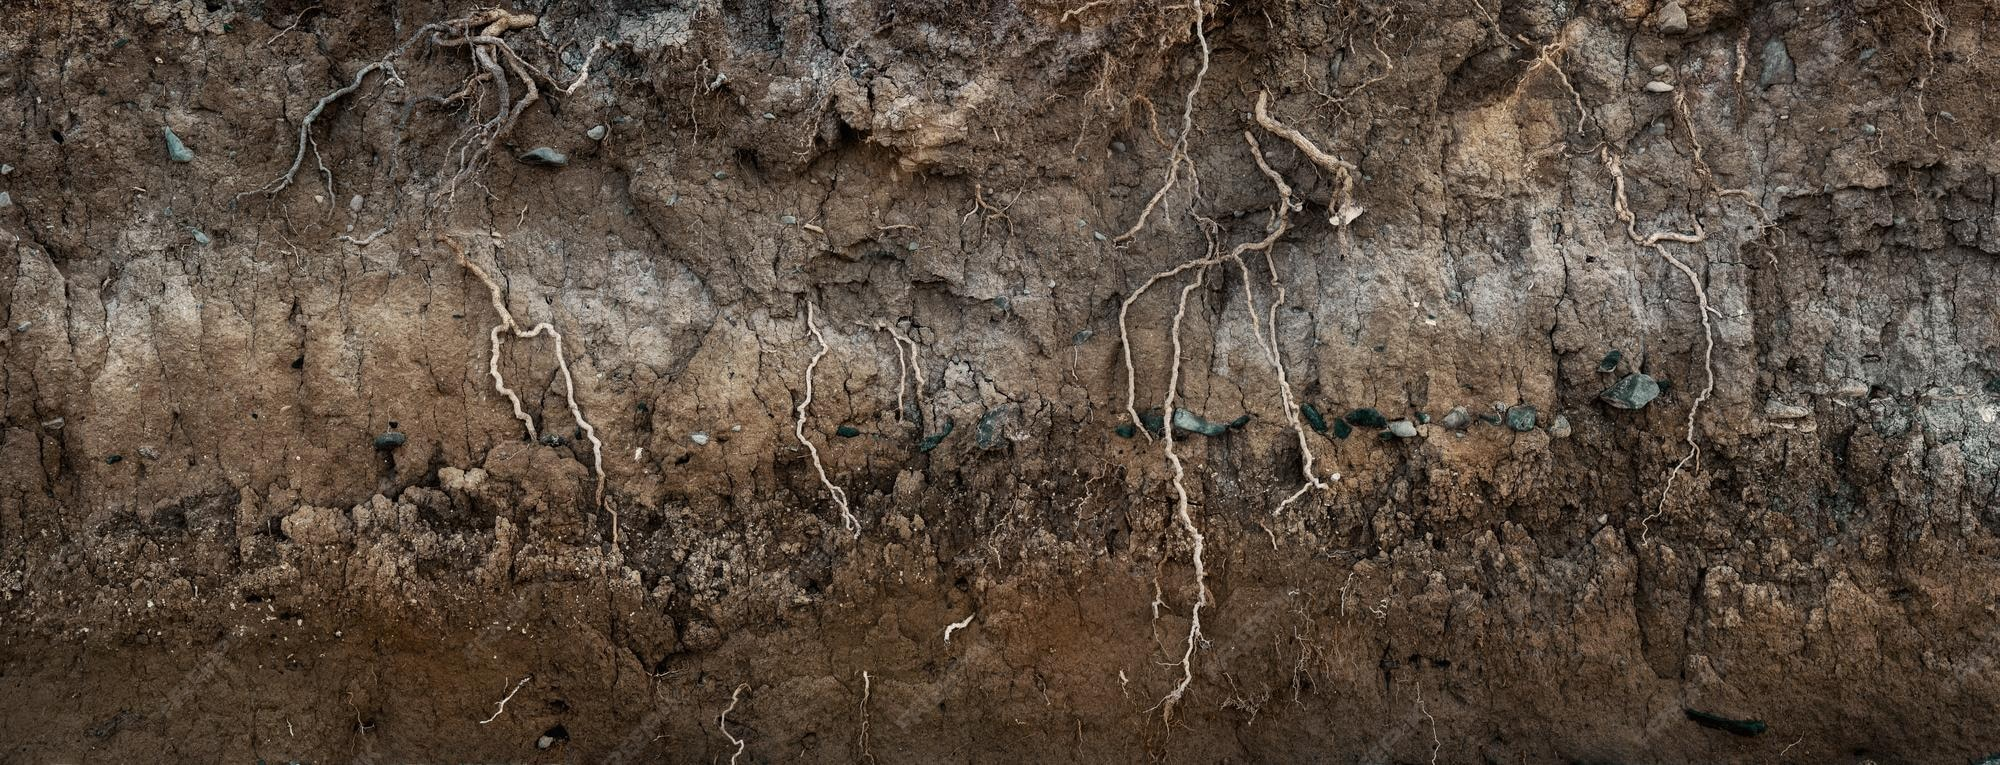
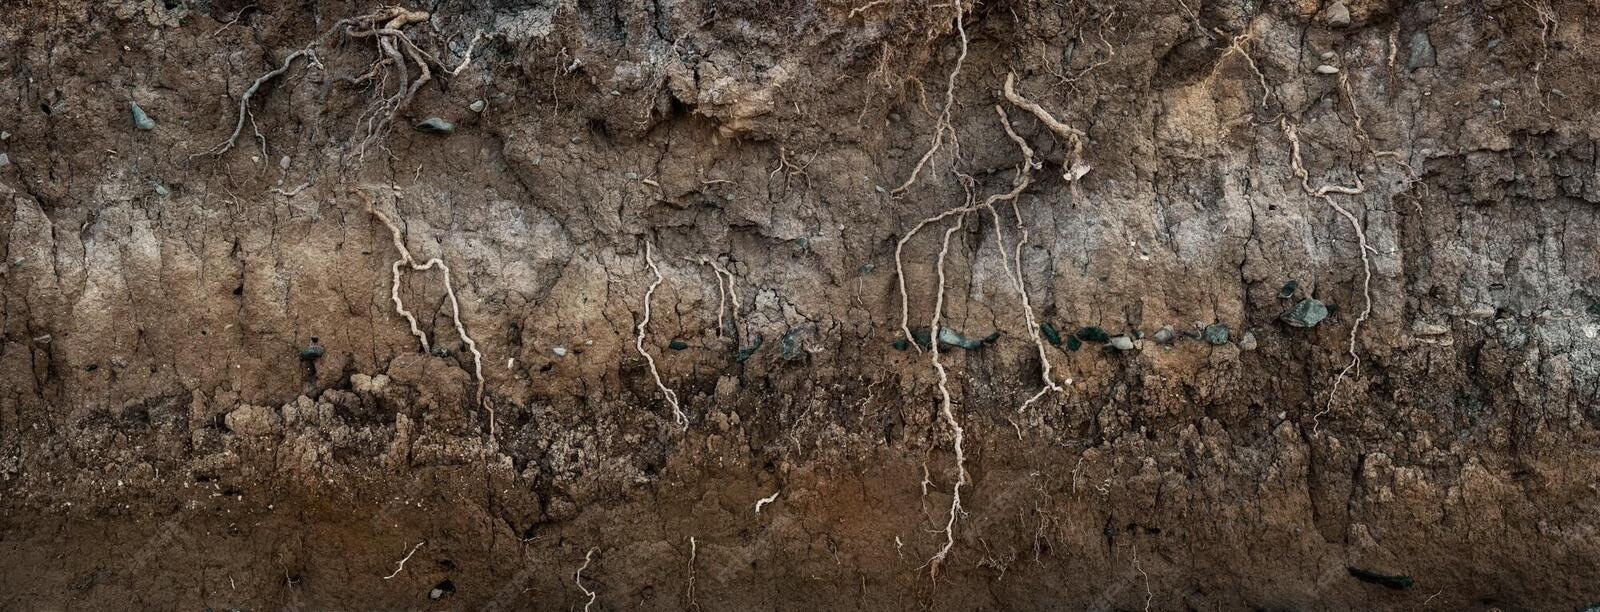
optimizado

diff --git a/layouts/partials/vendor.html b/layouts/partials/vendor.html
@@ -1,0 +1,155 @@
+{{/* jQuery - deferred for faster FCP */}}
+{{ $jqueryLib := resources.Get "lib/jquery/jquery.slim.min.js" | resources.Fingerprint (.Site.Params.fingerprintAlgorithm | default "sha512") }}
+<script defer src="{{ $jqueryLib.RelPermalink }}" integrity="{{ $jqueryLib.Data.Integrity }}"></script>
+
+{{/* Mermaid */}}
+{{ if .Page.HasShortcode "mermaid" }}
+  {{ $mermaidLib := resources.Get "lib/mermaid/mermaid.min.js" }}
+  {{ $mermaidConfig := resources.Get "js/mermaid.js" }}
+  {{ $mermaidConfig := $mermaidConfig | resources.Minify }}
+  {{ $mermaidJS := slice $mermaidLib $mermaidConfig | resources.Concat "js/mermaid.bundle.js" | resources.Fingerprint (.Site.Params.fingerprintAlgorithm | default "sha512") }}
+  <script
+    defer
+    type="text/javascript"
+    src="{{ $mermaidJS.RelPermalink }}"
+    integrity="{{ $mermaidJS.Data.Integrity }}"></script>
+{{ end }}
+
+{{/* Chart */}}
+{{ if .Page.HasShortcode "chart" }}
+  {{ $chartLib := resources.Get "lib/chart/chart.min.js" }}
+  {{ $chartConfig := resources.Get "js/chart.js" }}
+  {{ $chartConfig := $chartConfig | resources.Minify }}
+  {{ $chartJS := slice $chartLib $chartConfig | resources.Concat "js/chart.bundle.js" | resources.Fingerprint (.Site.Params.fingerprintAlgorithm | default "sha512") }}
+  <script
+    defer
+    type="text/javascript"
+    src="{{ $chartJS.RelPermalink }}"
+    integrity="{{ $chartJS.Data.Integrity }}"></script>
+{{ end }}
+
+{{/* Katex */}}
+{{ if .Page.HasShortcode "katex" }}
+  {{ $katexCSS := resources.Get "lib/katex/katex.min.css" }}
+  {{ $katexCSS := $katexCSS | resources.Fingerprint (.Site.Params.fingerprintAlgorithm | default "sha512") }}
+  <link
+    type="text/css"
+    rel="stylesheet"
+    href="{{ $katexCSS.RelPermalink }}"
+    integrity="{{ $katexCSS.Data.Integrity }}">
+  {{ $katexLib := resources.Get "lib/katex/katex.min.js" }}
+  {{ $katexRenderLib := resources.Get "lib/katex/auto-render.min.js" }}
+  {{ $katexJS := slice $katexLib $katexRenderLib | resources.Concat "js/katex.bundle.js" | resources.Fingerprint (.Site.Params.fingerprintAlgorithm | default "sha512") }}
+  <script
+    defer
+    type="text/javascript"
+    src="{{ $katexJS.RelPermalink }}"
+    integrity="{{ $katexJS.Data.Integrity }}"
+    id="katex-render"></script>
+  {{ $katexFonts := resources.Match "lib/katex/fonts/*" }}
+  {{ range $katexFonts }}
+    <!-- {{ .RelPermalink }} -->
+  {{ end }}
+{{ end }}
+
+{{/* TypeIt */}}
+{{ if .Page.HasShortcode "typeit" }}
+  {{ $typeitLib := resources.Get "lib/typeit/typeit.umd.js" | resources.Fingerprint (.Site.Params.fingerprintAlgorithm | default "sha512") }}
+  <script defer src="{{ $typeitLib.RelPermalink }}" integrity="{{ $typeitLib.Data.Integrity }}"></script>
+{{ end }}
+
+{{/* Packery */}}
+{{ if .Page.HasShortcode "gallery" }}
+  {{ $galleryCSS := resources.Get "css/components/gallery.css" }}
+  {{ $galleryCSS = $galleryCSS | resources.Fingerprint (.Site.Params.fingerprintAlgorithm | default "sha512") }}
+  <link
+    type="text/css"
+    rel="stylesheet"
+    href="{{ $galleryCSS.RelPermalink }}"
+    integrity="{{ $galleryCSS.Data.Integrity }}">
+  {{ $packeryLib := resources.Get "lib/packery/packery.pkgd.min.js" }}
+  {{ $packeryLib = $packeryLib | resources.Fingerprint (.Site.Params.fingerprintAlgorithm | default "sha512") }}
+  <script
+    defer
+    type="text/javascript"
+    src="{{ $packeryLib.RelPermalink }}"
+    integrity="{{ $packeryLib.Data.Integrity }}"></script>
+
+  {{ $jsShortcodeGallery := resources.Get "js/shortcodes/gallery.js" }}
+  {{ $jsShortcodeGallery = $jsShortcodeGallery | resources.Minify | resources.Fingerprint (.Site.Params.fingerprintAlgorithm | default "sha512") }}
+  <script
+    type="text/javascript"
+    src="{{ $jsShortcodeGallery.RelPermalink }}"
+    integrity="{{ $jsShortcodeGallery.Data.Integrity }}"></script>
+{{ end }}
+
+{{/* tw-elements */}}
+{{ if or (.Page.HasShortcode "carousel") (.Page.HasShortcode "timeline") }}
+  {{ $carouselCSS := resources.Get "css/components/carousel.css" }}
+  {{ $carouselCSS = $carouselCSS | resources.Fingerprint (.Site.Params.fingerprintAlgorithm | default "sha512") }}
+  <link
+    type="text/css"
+    rel="stylesheet"
+    href="{{ $carouselCSS.RelPermalink }}"
+    integrity="{{ $carouselCSS.Data.Integrity }}">
+  {{ $twelementsLib := resources.Get "lib/tw-elements/index.min.js" }}
+  {{ $twelementsLib = $twelementsLib | resources.Fingerprint (.Site.Params.fingerprintAlgorithm | default "sha512") }}
+  <script
+    defer
+    type="text/javascript"
+    src="{{ $twelementsLib.RelPermalink }}"
+    integrity="{{ $twelementsLib.Data.Integrity }}"></script>
+{{ end }}
+
+{{/* youtubeLite */}}
+{{ if .Page.HasShortcode "youtubeLite" }}
+  {{ $youtubeLiteCSS := resources.Get "lib/lite-youtube-embed/lite-yt-embed.css" }}
+  {{ $youtubeLiteCSS = $youtubeLiteCSS | resources.Fingerprint (.Site.Params.fingerprintAlgorithm | default "sha512") }}
+  <link
+    type="text/css"
+    rel="stylesheet"
+    href="{{ $youtubeLiteCSS.RelPermalink }}"
+    integrity="{{ $youtubeLiteCSS.Data.Integrity }}">
+  {{ $youtubeLiteLib := resources.Get "lib/lite-youtube-embed/lite-yt-embed.js" }}
+  {{ $youtubeLiteLib = $youtubeLiteLib | resources.Fingerprint (.Site.Params.fingerprintAlgorithm | default "sha512") }}
+  <script
+    type="text/javascript"
+    src="{{ $youtubeLiteLib.RelPermalink }}"
+    integrity="{{ $youtubeLiteLib.Data.Integrity }}"></script>
+{{ end }}
+
+{{/* Repo cards */}}
+{{ $repoCards := slice "codeberg" "forgejo" "gitea" "github" "hugging-face" }}
+{{ $hasRepoCards := false }}
+{{ range $repoCards }}
+  {{ if $.Page.HasShortcode . }}
+    {{ $hasRepoCards = true }}
+  {{ end }}
+{{ end }}
+
+{{ if $hasRepoCards }}
+  {{ $repoColors := site.Data.repoColors }}
+  {{ $cssRules := slice }}
+
+  {{/* default color */}}
+  {{ $cssRules = $cssRules | append ".language-dot[data-language=\"default\"] { background-color: #0077b6; }" }}
+
+  {{/* Hugging Face model color */}}
+  {{ $cssRules = $cssRules | append ".language-dot[data-language=\"model\"] { background-color: #ff6b35; }" }}
+
+  {{ range $lang, $color := $repoColors }}
+    {{ $cssRules = $cssRules | append (printf ".language-dot[data-language=\"%s\"] { background-color: %s; }" $lang $color) }}
+  {{ end }}
+  {{ $repoCardCSS := resources.FromString "css/repo-cards.css" (delimit $cssRules "\n")
+    | minify | resources.Fingerprint (.Site.Params.fingerprintAlgorithm | default "sha512")
+  }}
+  <link rel="stylesheet" href="{{ $repoCardCSS.RelPermalink }}" integrity="{{ $repoCardCSS.Data.Integrity }}">
+{{ end }}
+
+{{/* tabs */}}
+{{ if .Page.HasShortcode "tabs" }}
+  {{ $tabJS := resources.Get "js/shortcodes/tabs.js" }}
+  {{ with $tabJS | minify | resources.Fingerprint (.Site.Params.fingerprintAlgorithm | default "sha512") }}
+    <script src="{{ .RelPermalink }}" integrity="{{ .Data.Integrity }}" crossorigin="anonymous"></script>
+  {{ end }}
+{{ end }}

diff --git a/layouts/partials/webamp.html b/layouts/partials/webamp.html
@@ -97,22 +97,15 @@
 
   img[data-zoom-src] {
     cursor: pointer;
+    will-change: transform;
     transition: box-shadow 0.2s ease, transform 0.2s ease;
   }
   img[data-zoom-src]:hover {
     transform: scale(1.05);
-    box-shadow: 0 0 25px 8px rgba(255, 255, 255, 0.45);
-    animation: heroGlow 2.5s ease-in-out infinite;
-  }
-  img[data-zoom-src].hero-glow-stop {
-    animation: none;
+    box-shadow: 0 0 20px 6px rgba(255, 255, 255, 0.3);
   }
   img[data-zoom-src].webamp-unlocked {
     animation: webampUnlock 0.6s ease-out forwards;
-  }
-  @keyframes heroGlow {
-    0%, 100% { box-shadow: 0 0 10px 3px rgba(255, 255, 255, 0.3); }
-    50% { box-shadow: 0 0 25px 8px rgba(255, 255, 255, 0.15); }
   }
 
   .hero-progress-ring {
@@ -211,7 +204,6 @@
         unlocked = true;
         heroImg.removeEventListener("click", handleHeroClick, true);
         heroImg.classList.add("webamp-unlocked");
-        heroImg.classList.add("hero-glow-stop");
         heroImg.style.cursor = "default";
         if (ring) ring.style.display = "none";
         loadWebamp();
@@ -275,6 +267,8 @@
       return { sampleRate: sampleRate, bitrateKbps: bitrateKbps };
     }
 
+    var tagCache = {};
+
     function applyRealMediaTags(webamp, track) {
       if (!webamp || !track) return;
       if (!webamp.store || typeof webamp.store.dispatch !== "function") return;
@@ -295,6 +289,20 @@
       if (!meta && state && state.tracks && state.tracks[id]) {
         meta = state.tracks[id];
       }
+      if (tagCache[url]) {
+        var cached = tagCache[url];
+        webamp.store.dispatch({
+          type: "SET_MEDIA_TAGS",
+          id: id,
+          title: meta && meta.title ? meta.title : "",
+          artist: meta && meta.artist ? meta.artist : "",
+          album: meta && meta.album ? meta.album : "",
+          bitrate: cached.bitrateKbps * 1000,
+          sampleRate: cached.sampleRate,
+          numberOfChannels: 2
+        });
+        return;
+      }
       fetch(url, { headers: { Range: "bytes=0-131071" } })
         .then(function (resp) {
           if (!resp.ok) throw new Error("Range fetch failed");
@@ -303,6 +311,7 @@
         .then(function (buf) {
           var info = parseMpegHeader(new Uint8Array(buf));
           if (!info || !info.sampleRate || !info.bitrateKbps) return;
+          tagCache[url] = info;
           webamp.store.dispatch({
             type: "SET_MEDIA_TAGS",
             id: id,

diff --git a/static/js/cursor.js b/static/js/cursor.js
@@ -1,5 +1,6 @@
 (function () {
   if (window.matchMedia("(pointer: coarse)").matches) return;
+  if (window.matchMedia("(prefers-reduced-motion: reduce)").matches) return;
 
   var cursor = document.createElement("div");
   cursor.className = "custom-cursor";
@@ -7,14 +8,23 @@
   document.body.classList.add("hide-cursor");
 
   var visible = false;
+  var rafId = null;
+  var pendingX = 0;
+  var pendingY = 0;
 
   document.addEventListener("mousemove", function (e) {
-    if (!visible) {
-      visible = true;
-      cursor.style.opacity = "1";
-    }
-    cursor.style.transform =
-      "translate(" + (e.clientX - 4) + "px, " + (e.clientY - 4) + "px)";
+    pendingX = e.clientX;
+    pendingY = e.clientY;
+    if (rafId) return;
+    rafId = requestAnimationFrame(function () {
+      rafId = null;
+      if (!visible) {
+        visible = true;
+        cursor.style.opacity = "1";
+      }
+      cursor.style.transform =
+        "translate(" + (pendingX - 4) + "px, " + (pendingY - 4) + "px)";
+    });
   });
 
   document.addEventListener("mousedown", function () {

diff --git a/layouts/partials/extend-head.html b/layouts/partials/extend-head.html
@@ -1,2 +1,4 @@
-<link rel="stylesheet" href="/css/cursor.css">
+<link rel="preconnect" href="https://fonts.googleapis.com">
+<link rel="preconnect" href="https://fonts.gstatic.com" crossorigin>
+<link rel="stylesheet" href="/css/cursor.css" media="print" onload="this.media='all'">
 <script defer src="/js/cursor.js"></script>

diff --git a/static/css/cursor.css b/static/css/cursor.css
@@ -10,8 +10,8 @@
   background-position: center;
   pointer-events: none;
   z-index: 1000001;
+  will-change: transform;
   transform: translate(-4px, -4px);
-  transition: transform 0.1s ease;
 }
 
 .custom-cursor.clicking {

diff --git a/content/_index.md b/content/_index.md
@@ -2,7 +2,7 @@
 title: Anuncio
 ---
 
-{{< new title="Comunidad Gusanera: Me ayudan a difundir para que Ligustrino vuelva pronto a casa? Gracias" >}}
+{{< new title="Todavía no se sabe el paradero de Ligustrino, por favor continuen compartiendo. Gracias" >}}
 ![Ligustrino](/ligus.webp)
 
 <a href="/ligus.webp" download="ligus.webp" style="display:inline-block;margin-top:10px;padding:8px 16px;background-color:#ffe600;color:#121212;font-weight:600;border-radius:6px;text-decoration:none;">Descargar imagen</a>
